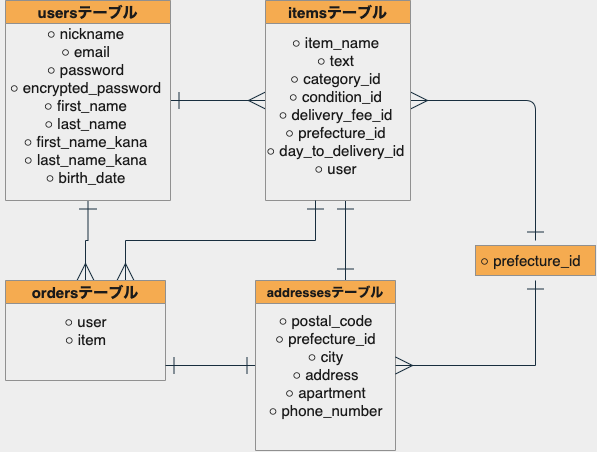
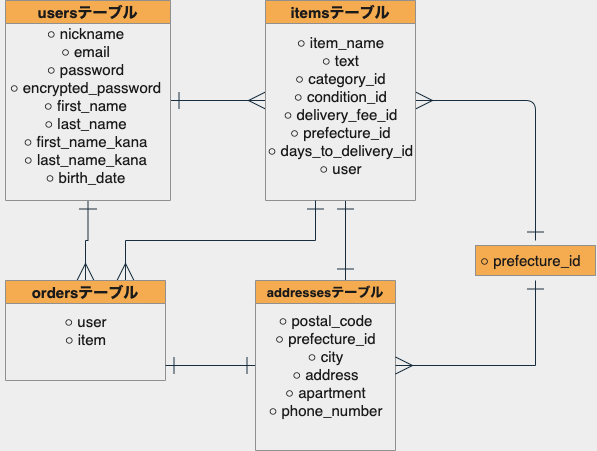
データベース設計４

diff --git a/README.md b/README.md
@@ -4,6 +4,8 @@
 
 | Column             | Type   | Option                    |
 | ------------------ | -----  | ------------------------- | 
+| email              | string | null: false, unique: true |
+| password           | string | null: false               |
 | encrypted_password | string | null: false               |
 | nickname           | string | null: false               |
 | first_name         | string | null: false               |
@@ -19,26 +21,21 @@
 
 ## itmes テーブル
 
-| Column             | Type       | Option                         |
-| ------------------ | ---------- | ------------------------------ |
-| name               | string     | null: false                    |
-| text               | text       | null: false                    |
-| category_id        | integer    | null: false                    |
-| condition_id       | integer    | null: false                    |
-| delivery_fee_id    | integer    | null: false                    |
-| prefecture_id      | integer    | null: false                    |
-| day_to_delivery_id | integer    | null: false                    |
-| price              | integer    | null: false                    |
-| user               | references | null: false, foreign_key: true |
+| Column              | Type       | Option                         |
+| ------------------  | ---------- | ------------------------------ |
+| name                | string     | null: false                    |
+| text                | text       | null: false                    |
+| category_id         | integer    | null: false                    |
+| condition_id        | integer    | null: false                    |
+| delivery_fee_id     | integer    | null: false                    |
+| prefecture_id       | integer    | null: false                    |
+| days_to_delivery_id | integer    | null: false                    |
+| price               | integer    | null: false                    |
+| user                | references | null: false, foreign_key: true |
 
 ### Association
 
 - belongs_to :user
-- belongs_to :category_id
-- belongs_to :condition_id
-- belongs_to :delivery_fee_id
-- belongs_to :prefecture_id
-- belongs_to :day_to_delivery_id
 - has_one :order
 
 ## orders テーブル
@@ -68,4 +65,3 @@
 ### Association
 
 - belongs_to :order
-- belongs_to: prefecture_id
